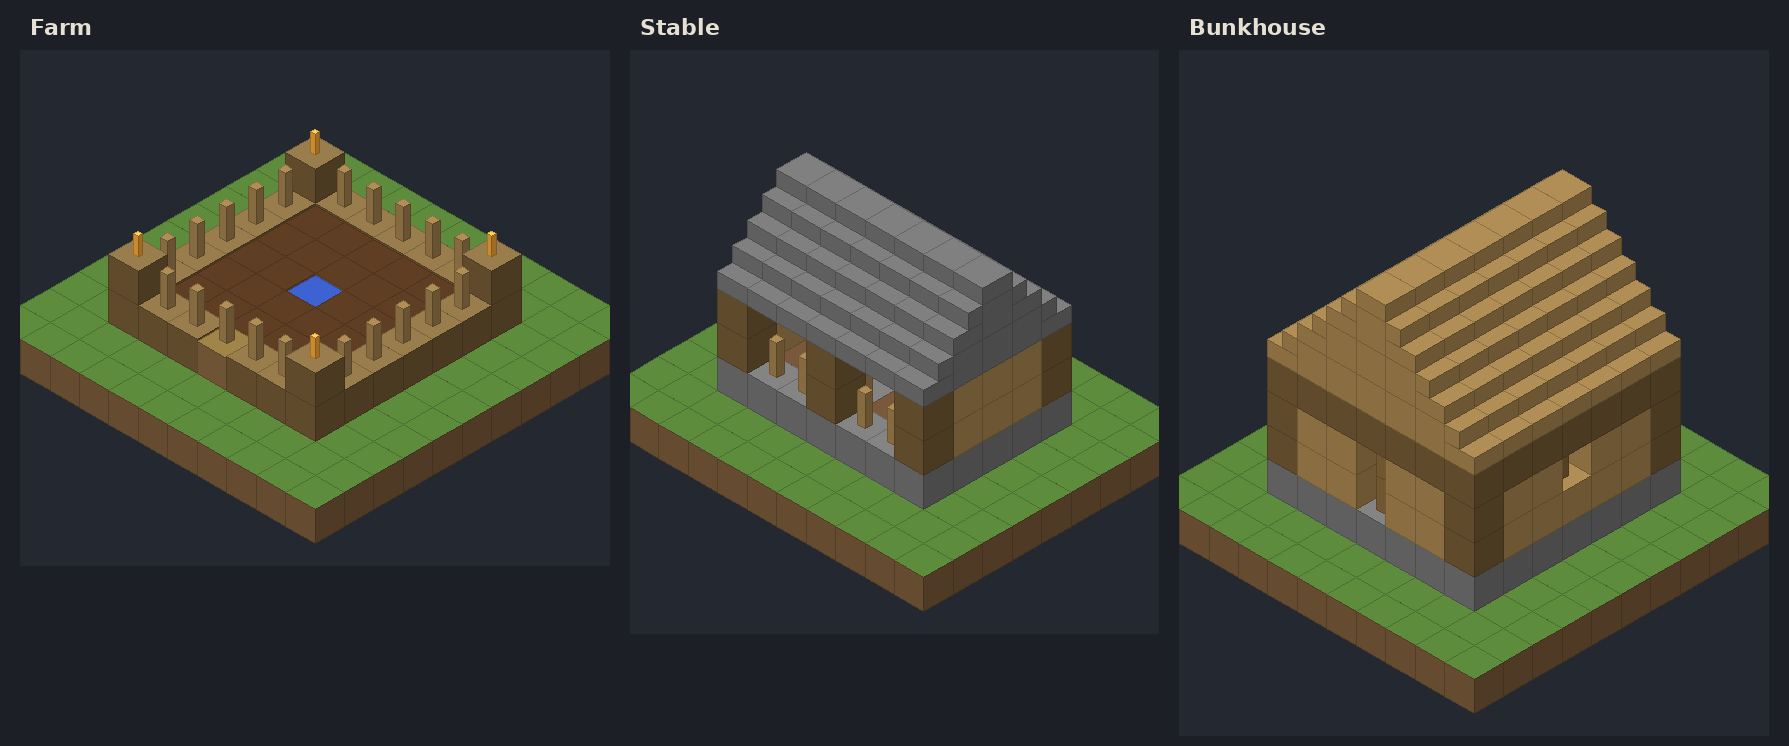
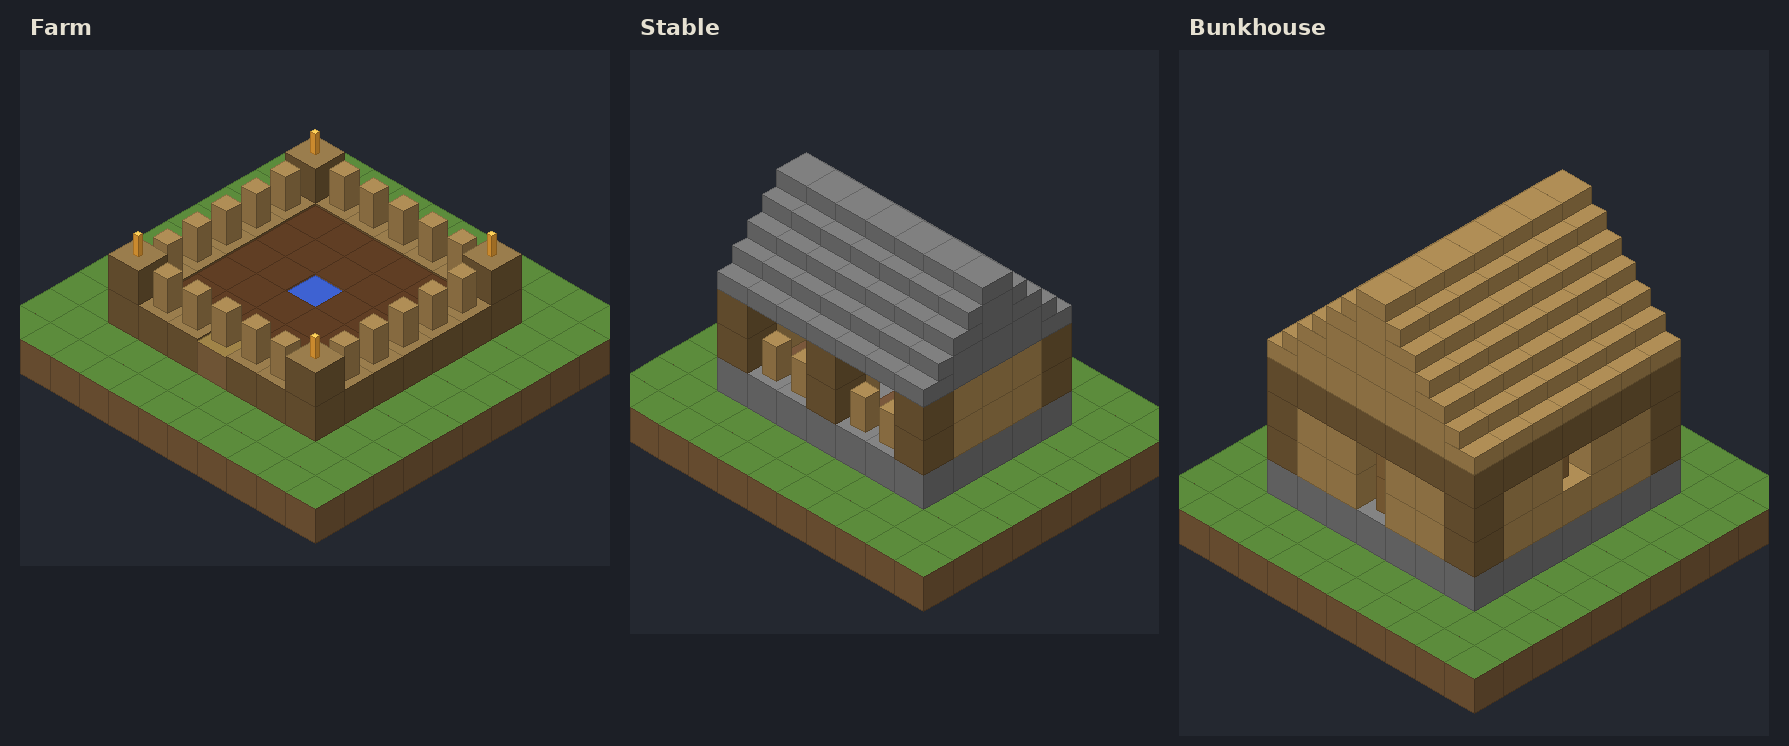
M1-09, M1-23: the Hollow Ruin, ledger-tier timings, and a name-pool fix
The ruin is placed when its chunk first loads, with the Charter, a lectern
and three weak guards. Benchmarking found survivor generation crashing once
the name pool ran low with many camps; fixed with a regression test.

Claude-Session: https://claude.ai/code/session_01JvoFDEHzcfcKmbZrWZ3XAN

Changed region(s): [[0.0615, 0.2158, 0.2767, 0.4933], [0.3997, 0.4316, 0.5226, 0.5858]]

diff --git a/src/main/java/io/github/bl4z3es/riseofempires/mc/world/HollowRuin.java b/src/main/java/io/github/bl4z3es/riseofempires/mc/world/HollowRuin.java
@@ -1,0 +1,141 @@
+package io.github.bl4z3es.riseofempires.mc.world;
+
+import io.github.bl4z3es.riseofempires.RiseOfEmpires;
+import io.github.bl4z3es.riseofempires.core.Rng;
+import io.github.bl4z3es.riseofempires.core.ledger.Event;
+import io.github.bl4z3es.riseofempires.core.ledger.EventDraft;
+import io.github.bl4z3es.riseofempires.core.ledger.Place;
+import io.github.bl4z3es.riseofempires.core.ledger.Ref;
+import io.github.bl4z3es.riseofempires.core.model.Nation;
+import io.github.bl4z3es.riseofempires.core.sim.Effects;
+import io.github.bl4z3es.riseofempires.core.sim.camp.Blueprint;
+import io.github.bl4z3es.riseofempires.mc.McTuning;
+import io.github.bl4z3es.riseofempires.mc.block.ModItems;
+import io.github.bl4z3es.riseofempires.mc.entity.BarbarianEntity;
+import io.github.bl4z3es.riseofempires.mc.entity.ModEntities;
+import java.io.BufferedReader;
+import java.util.stream.Collectors;
+import net.fabricmc.fabric.api.event.lifecycle.v1.ServerChunkEvents;
+import net.minecraft.core.BlockPos;
+import net.minecraft.resources.Identifier;
+import net.minecraft.server.level.ServerLevel;
+import net.minecraft.world.entity.EntitySpawnReason;
+import net.minecraft.world.item.ItemStack;
+import net.minecraft.world.item.Items;
+import net.minecraft.world.level.ChunkPos;
+import net.minecraft.world.level.block.Block;
+import net.minecraft.world.level.block.Blocks;
+import net.minecraft.world.level.block.entity.ChestBlockEntity;
+import net.minecraft.world.level.chunk.LevelChunk;
+import net.minecraft.world.level.levelgen.Heightmap;
+
+/**
+ * The Hollow Ruin (task M1-09): one per world, {@link McTuning#RUIN_DISTANCE_BLOCKS} from spawn
+ * in a direction set by the world seed. It is put up when its chunk is first loaded, before any
+ * player can see it (law L1), from {@code data/roe/ruin/hollow_ruin.txt}. Its chest holds the
+ * Charter. A few weak raiders camp there until the first camp is founded.
+ */
+public final class HollowRuin {
+    private HollowRuin() {}
+
+    public static final String KNOWN = "hollow_ruin_known";
+    public static final String STANDS = "hollow_ruin_stands";
+    /** World tags: the ruin's chunk and whether it has been built. */
+    public static final String CHUNK_X = "ruin.chunk_x", CHUNK_Z = "ruin.chunk_z", BUILT = "ruin.built";
+
+    public static void register() {
+        ServerChunkEvents.CHUNK_LOAD.register(HollowRuin::onChunkLoad);
+    }
+
+    /** Chooses where the ruin stands, once per world. Called at server start. */
+    public static void choose(RoeWorld w) {
+        if (!w.state().tag(Ref.THE_WORLD, CHUNK_X).isEmpty()) return;
+        BlockPos spawn = w.overworld().getRespawnData().pos();
+        double angle = Rng.of(w.state().seed(), 0, "hollow_ruin").nextDouble() * Math.PI * 2;
+        int x = spawn.getX() + (int) (Math.cos(angle) * McTuning.RUIN_DISTANCE_BLOCKS);
+        int z = spawn.getZ() + (int) (Math.sin(angle) * McTuning.RUIN_DISTANCE_BLOCKS);
+        ChunkPos chunk = ChunkPos.containing(new BlockPos(x, 0, z));
+        w.sim().emit(EventDraft.of(KNOWN).actor(Ref.THE_WORLD)
+                .effect(Effects.setTag(Ref.THE_WORLD, CHUNK_X, String.valueOf(chunk.x())))
+                .effect(Effects.setTag(Ref.THE_WORLD, CHUNK_Z, String.valueOf(chunk.z())))
+                .summary("Long before you came, a waystation of the old empire fell to ruin "
+                        + McTuning.RUIN_DISTANCE_BLOCKS + " paces from where you woke. Its keeper hid the Charter there."));
+    }
+
+    /** Where the ruin's north-west corner is in a chunk: two blocks in, so it fits inside. */
+    static BlockPos corner(LevelChunk chunk, ServerLevel level) {
+        int x = chunk.getPos().getMinBlockX() + 2, z = chunk.getPos().getMinBlockZ() + 2;
+        int y = level.getHeight(Heightmap.Types.MOTION_BLOCKING_NO_LEAVES, x + 5, z + 5) - 1;
+        return new BlockPos(x, y, z);
+    }
+
+    private static void onChunkLoad(ServerLevel level, LevelChunk chunk, boolean generated) {
+        RoeWorld w = RoeWorld.get(level.getServer());
+        if (w == null || level != w.overworld()) return;
+        String cx = w.state().tag(Ref.THE_WORLD, CHUNK_X);
+        if (cx.isEmpty() || chunk.getPos().x() != Integer.parseInt(cx)
+                || chunk.getPos().z() != Integer.parseInt(w.state().tag(Ref.THE_WORLD, CHUNK_Z))) return;
+        BlockPos corner = corner(chunk, level);
+        if (w.state().tag(Ref.THE_WORLD, BUILT).isEmpty()) build(w, level, corner);
+        if (noCampYet(w)) guard(level, corner);
+    }
+
+    private static boolean noCampYet(RoeWorld w) {
+        for (Nation n : w.state().nations()) if (n.playerRuled()) return false;
+        return true;
+    }
+
+    /** Builds the ruin with its north-west bottom corner here. Also used by the game test. */
+    public static void buildAt(RoeWorld w, ServerLevel level, BlockPos corner) {
+        build(w, level, corner);
+    }
+
+    private static void build(RoeWorld w, ServerLevel level, BlockPos corner) {
+        Blueprint ruin = load(level);
+        if (ruin == null) return;
+        for (Blueprint.Placement p : ruin.placements()) {
+            BlockPos pos = Sites.at(new Place("", corner.getX(), corner.getY(), corner.getZ()), p);
+            level.setBlock(pos, BlockStates.parse(p.blockState()), Block.UPDATE_CLIENTS);
+            if (p.y() == 0 && !p.air()) {
+                // Footings: fill any gap under the floor so the ruin does not float.
+                for (int d = 1; d <= 4 && level.getBlockState(pos.below(d)).canBeReplaced(); d++) {
+                    level.setBlock(pos.below(d), Blocks.COBBLESTONE.defaultBlockState(), Block.UPDATE_CLIENTS);
+                }
+            }
+            if (p.blockState().startsWith("minecraft:chest") && level.getBlockEntity(pos) instanceof ChestBlockEntity chest) {
+                chest.setItem(13, new ItemStack(ModItems.CHARTER));
+                chest.setItem(3, new ItemStack(Items.BREAD, McTuning.RUIN_BREAD));
+                chest.setItem(21, new ItemStack(Items.WHEAT_SEEDS, McTuning.RUIN_SEEDS));
+            }
+        }
+        Event known = w.sim().ledger().latest(KNOWN);
+        w.sim().emit(EventDraft.of(STANDS).actor(Ref.THE_WORLD).causedBy(known)
+                .at(RoeWorld.place(level, corner))
+                .effect(Effects.setTag(Ref.THE_WORLD, BUILT, "1"))
+                .summary("The Hollow Ruin stands at " + corner.getX() + " " + corner.getY() + " " + corner.getZ() + "."));
+        RiseOfEmpires.LOG.info("[riseofempires] Hollow Ruin placed at {}", corner);
+    }
+
+    private static void guard(ServerLevel level, BlockPos corner) {
+        for (int i = 0; i < McTuning.RUIN_GUARDS; i++) {
+            BarbarianEntity b = ModEntities.BARBARIAN.create(level, EntitySpawnReason.EVENT);
+            if (b == null) continue;
+            b.snapTo(corner.getX() + 3.5 + i * 2, corner.getY() + 1, corner.getZ() + 5.5);
+            level.addFreshEntity(b);
+        }
+    }
+
+    private static Blueprint load(ServerLevel level) {
+        var res = level.getServer().getResourceManager().getResource(Identifier.fromNamespaceAndPath("roe", "ruin/hollow_ruin.txt"));
+        if (res.isEmpty()) {
+            RiseOfEmpires.LOG.error("[riseofempires] data/roe/ruin/hollow_ruin.txt is missing");
+            return null;
+        }
+        try (BufferedReader r = res.get().openAsReader()) {
+            return Blueprint.parse("hollow_ruin", r.lines().collect(Collectors.joining("\n")));
+        } catch (Exception e) {
+            RiseOfEmpires.LOG.error("[riseofempires] The Hollow Ruin could not be read: {}", e.getMessage());
+            return null;
+        }
+    }
+}

diff --git a/tools/render_blueprints.py b/tools/render_blueprints.py
@@ -33,11 +33,17 @@ C = {  # name: (top, side) colours
  'oak_door': ((146, 112, 64), (124, 94, 54)), 'oak_trapdoor': ((146, 112, 64), (120, 90, 50)),
  'chest': ((168, 116, 44), (138, 92, 32)), 'oak_stairs': ((176, 142, 86), (150, 120, 72)),
  'oak_slab': ((176, 142, 86), (150, 120, 72)),
- 'stone_brick_stairs': ((128, 128, 128), (104, 104, 104)), 'stone_bricks': ((128, 128, 128), (104, 104, 104)),
+ 'stone_brick_stairs': ((128, 128, 128), (104, 104, 104)),
+ 'mossy_stone_bricks': ((104, 124, 92), (88, 104, 78)), 'cracked_stone_bricks': ((118, 116, 112), (96, 94, 90)),
+ 'chiseled_stone_bricks': ((140, 140, 140), (112, 112, 112)), 'mossy_cobblestone': ((100, 120, 90), (84, 100, 76)),
+ 'gravel': ((132, 124, 120), (112, 104, 100)), 'stone_brick_wall': ((128, 128, 128), (104, 104, 104)),
+ 'cobweb': ((235, 235, 235), (210, 210, 210)), 'lectern': ((180, 140, 84), (140, 104, 60)), 'stone_bricks': ((128, 128, 128), (104, 104, 104)),
 }
 def shape(st):
     n = re.sub(r'^minecraft:', '', st.split('[')[0])
-    if n in ('oak_fence', 'oak_fence_gate'): return n, 0.25, 1.0, 0.0
+    if n in ('oak_fence', 'oak_fence_gate', 'stone_brick_wall'): return n, 0.5, 1.0, 0.0
+    if n == 'cobweb': return n, 0.6, 0.6, 0.0
+    if n == 'lectern': return n, 0.8, 0.85, 0.0
     if n in ('torch', 'wall_torch'): return n, 0.15, 0.6, 0.0
     if n in ('oak_trapdoor',): return n, 0.2, 1.0, 0.0
     if n in ('stone_brick_slab', 'oak_slab', 'brown_bed'): return n, 1.0, 0.5, 0.0
@@ -84,12 +90,14 @@ def render(path):
         cube(d, ox, oy, x, y, z, w, h, top, side)
     return img
 imgs = []
-for name in ('farm', 'stable', 'bunkhouse'):
-    im = render(f'{BP}/{name}.txt'); im.save(f'{OUT}/{name}.png'); imgs.append((name, im))
+import os
+for name in [a for a in sys.argv[3:]] or ('farm', 'stable', 'bunkhouse'):
+    path = name if name.endswith('.txt') else f'{BP}/{name}.txt'; name = os.path.basename(name)[:-4] if name.endswith('.txt') else name
+    im = render(path); im.save(f'{OUT}/{name}.png'); imgs.append((name, im))
 Wt = sum(i.width for _, i in imgs) + 20 * (len(imgs) + 1); Ht = max(i.height for _, i in imgs) + 60
 sheet = Image.new('RGB', (Wt, Ht), (28, 31, 38)); d = ImageDraw.Draw(sheet); x = 20
 try: f = ImageFont.truetype('/usr/share/fonts/truetype/dejavu/DejaVuSans-Bold.ttf', 22)
 except Exception: f = ImageFont.load_default()
 for name, im in imgs:
-    sheet.paste(im, (x, 50)); d.text((x + 10, 14), name.capitalize(), fill=(230, 225, 210), font=f); x += im.width + 20
-sheet.save(f'{OUT}/starter-buildings.png'); print(sheet.size)
+    sheet.paste(im, (x, 50)); d.text((x + 10, 14), name.replace('_', ' ').capitalize(), fill=(230, 225, 210), font=f); x += im.width + 20
+sheet.save(f'{OUT}/' + ('starter-buildings.png' if len(sys.argv) <= 3 else 'preview.png')); print(sheet.size)

diff --git a/src/gametest/java/io/github/bl4z3es/riseofempires/gametest/RuinGameTests.java b/src/gametest/java/io/github/bl4z3es/riseofempires/gametest/RuinGameTests.java
@@ -1,0 +1,31 @@
+package io.github.bl4z3es.riseofempires.gametest;
+
+import io.github.bl4z3es.riseofempires.mc.block.ModItems;
+import io.github.bl4z3es.riseofempires.mc.world.HollowRuin;
+import io.github.bl4z3es.riseofempires.mc.world.RoeWorld;
+import net.fabricmc.fabric.api.gametest.v1.GameTest;
+import net.minecraft.core.BlockPos;
+import net.minecraft.gametest.framework.GameTestHelper;
+import net.minecraft.world.level.block.Blocks;
+import net.minecraft.world.level.block.entity.ChestBlockEntity;
+
+public class RuinGameTests {
+    /** M1-09: the ruin stands, with a lectern to take and the Charter in its chest. */
+    @GameTest(padding = 8)
+    public void theHollowRuinHoldsTheCharterAndALectern(GameTestHelper h) {
+        RoeWorld w = RoeWorld.get(h.getLevel().getServer());
+        BlockPos corner = h.absolutePos(new BlockPos(0, 1, 0));
+        HollowRuin.buildAt(w, h.getLevel(), corner);
+        boolean lectern = false, charter = false;
+        for (BlockPos p : BlockPos.betweenClosed(corner, corner.offset(10, 3, 10))) {
+            if (h.getLevel().getBlockState(p).is(Blocks.LECTERN)) lectern = true;
+            if (h.getLevel().getBlockEntity(p) instanceof ChestBlockEntity chest) {
+                for (int i = 0; i < chest.getContainerSize(); i++) if (chest.getItem(i).is(ModItems.CHARTER)) charter = true;
+            }
+        }
+        h.assertTrue(lectern, "a lectern stands in the ruin");
+        h.assertTrue(charter, "the Charter lies in the ruin's chest");
+        h.assertTrue(w.sim().ledger().latest(HollowRuin.STANDS) != null, "the ruin is in the Ledger");
+        h.succeed();
+    }
+}

diff --git a/src/main/java/io/github/bl4z3es/riseofempires/core/sim/camp/Survivors.java b/src/main/java/io/github/bl4z3es/riseofempires/core/sim/camp/Survivors.java
@@ -74,7 +74,8 @@ public final class Survivors implements SimSystem {
         for (Character c : sim.state().characters()) usedNames.add(c.name());
         List<String> names = new ArrayList<>(SurvivorTables.NAMES);
         names.removeAll(usedNames);
-        if (names.isEmpty()) names = new ArrayList<>(SurvivorTables.NAMES);
+        // Names repeat once the pool runs low: a big world has more than one Mara.
+        if (names.size() < Balance.STARTING_SURVIVORS) names = new ArrayList<>(SurvivorTables.NAMES);
         List<SurvivorTables.Trait> traits = new ArrayList<>(SurvivorTables.TRAITS);
         List<String> wants = new ArrayList<>(SurvivorTables.WANTS);
         List<String> memories = new ArrayList<>(SurvivorTables.MEMORIES);

diff --git a/src/test/java/io/github/bl4z3es/riseofempires/core/sim/camp/SurvivorsTest.java b/src/test/java/io/github/bl4z3es/riseofempires/core/sim/camp/SurvivorsTest.java
@@ -64,6 +64,15 @@ class SurvivorsTest {
     }
 
     @Test
+    void manyCampsDoNotRunOutOfNames() {
+        Simulation sim = CampRules.install(new Simulation(new WorldState(5), new Ledger()));
+        int camps = SurvivorTables.NAMES.size();
+        for (int i = 0; i < camps; i++) Founding.found(sim, "p" + i, "P" + i, Place.overworld(i * 1000, 64, 0));
+        sim.advanceTo(16);
+        assertEquals(camps * Balance.STARTING_SURVIVORS, sim.state().characters().size());
+    }
+
+    @Test
     void sameSeedSamePeopleDifferentSeedDifferentPeople() {
         Camp a = new Camp(11), b = new Camp(11), c = new Camp(12);
         assertEquals(names(a), names(b));

diff --git a/src/main/java/io/github/bl4z3es/riseofempires/mc/McTuning.java b/src/main/java/io/github/bl4z3es/riseofempires/mc/McTuning.java
@@ -35,4 +35,12 @@ public final class McTuning {
     public static final int ADVICE_TICKS = 2400;
     /** Lines of the event log written per flush of the background writer. */
     public static final int LEDGER_FLUSH_LINES = 256;
+
+    /** How far from world spawn the Hollow Ruin stands. */
+    public static final int RUIN_DISTANCE_BLOCKS = 160;
+    /** Weak raiders camped at the ruin until someone founds a camp. */
+    public static final int RUIN_GUARDS = 3;
+    /** Bread and seeds left in the ruin's chest beside the Charter. */
+    public static final int RUIN_BREAD = 3;
+    public static final int RUIN_SEEDS = 6;
 }

diff --git a/src/main/java/io/github/bl4z3es/riseofempires/RiseOfEmpires.java b/src/main/java/io/github/bl4z3es/riseofempires/RiseOfEmpires.java
@@ -15,6 +15,7 @@ public final class RiseOfEmpires implements ModInitializer {
         io.github.bl4z3es.riseofempires.mc.world.Blueprints.register();
         io.github.bl4z3es.riseofempires.mc.world.Sites.register();
         io.github.bl4z3es.riseofempires.mc.world.Upkeep.register();
+        io.github.bl4z3es.riseofempires.mc.world.HollowRuin.register();
         io.github.bl4z3es.riseofempires.mc.entity.Bodies.register();
         io.github.bl4z3es.riseofempires.mc.entity.RaidBattles.register();
         io.github.bl4z3es.riseofempires.mc.world.RoeWorld.register();

diff --git a/src/main/java/io/github/bl4z3es/riseofempires/mc/world/RoeWorld.java b/src/main/java/io/github/bl4z3es/riseofempires/mc/world/RoeWorld.java
@@ -98,6 +98,7 @@ public final class RoeWorld {
         Simulation sim = RULES.apply(new Simulation(state, ledger));
         current = new RoeWorld(server, sim, data, log, DeferredEdits.load(data.deferred()));
         Sites.listen(current);
+        HollowRuin.choose(current);
         Upkeep.listen(current);
         RiseOfEmpires.LOG.info("[riseofempires] world loaded: hour {}, {} events, {} settlements",
                 state.hour(), ledger.size(), state.settlements().size());

diff --git a/TASKS.md b/TASKS.md
@@ -88,8 +88,9 @@ Not in M1: other nations, diplomacy, research, model calls, money, freehand anch
 
 ### The opening
 
-- [ ] **M1-09 The Hollow Ruin.** A hand-built structure placed by world generation near spawn in the starting region, guarded by weak raiders, holding the Charter. Build it to the L1 quality bar.
+- [~] **M1-09 The Hollow Ruin.** A hand-built structure placed by world generation near spawn in the starting region, guarded by weak raiders, holding the Charter. Build it to the L1 quality bar.
   - Done when: a fresh world has one reachable Hollow Ruin within a set distance of spawn, and the owner has approved how it looks.
+  - Note: `mc/world/HollowRuin`: one per world, 160 blocks from spawn in a seed-chosen direction, built from `data/roe/ruin/hollow_ruin.txt` when its chunk first loads (so it is already there when seen). Its chest holds the Charter, 3 bread and 6 seeds; a lectern stands inside; three weak raiders camp there until the first camp is founded. Game test checks the lectern and the Charter. Preview: `docs/previews/hollow-ruin.png`. Open: the owner's approval of the look, and an in-client walk to it.
 - [x] **M1-10 The Charter.** An item found in the ruin. Placing it on a lectern founds the camp: a `SettlementFounded` event, a claim, a tent and a campfire.
   - Done when: founding works once per player, is recorded in the Ledger and survives a reload.
   - Note: `roe:charter` on an empty lectern: `Founding.found`, the lectern takes a written Charter, a canvas tent with a bed and a campfire go up block by block, and the founder receives three Plans (farm, stable, bunkhouse). Game test covers once-only founding; a second Charter inside a claim says which camp owns the land.
@@ -138,8 +139,9 @@ Not in M1: other nations, diplomacy, research, model calls, money, freehand anch
 
 ### Finish
 
-- [ ] **M1-23 Performance check.** Measure server tick time with the camp loaded and with it unloaded. Record the hardware, the method and the results here.
+- [~] **M1-23 Performance check.** Measure server tick time with the camp loaded and with it unloaded. Record the hardware, the method and the results here.
   - Done when: the numbers are written under this task.
+  - Note: Measured the Ledger tier only (camp unloaded). Hardware: cloud container, 4 vCPU Intel Xeon @ 2.10 GHz, Temurin JDK 25.0.5. Method: pure-Java run of `CampRules` with fed camps (farmer, gatherer, fighter each), 5 in-game days warm-up, then the mean over 20 in-game days. Results: 1 camp 0.12 ms per in-game hour; 10 camps 0.16 ms; 50 camps 0.62 ms. One in-game hour is 1000 ticks, so the unloaded cost per tick is negligible; a 12-hour sleep catch-up for one camp is about 1.4 ms, spread over ticks by the 2 ms budget. Not measured: tick time with the camp loaded and bodies working, which needs a client session.
 - [ ] **M1-24 Polish pass.** Fix anything that pops in, teleports, idles with no reason or looks unfinished.
   - Done when: every line of the quality bar in `RULES.md` section 4 holds.
 - [ ] **M1-25 Playtest.** Three people who did not build it play from spawn to the end of winter.
